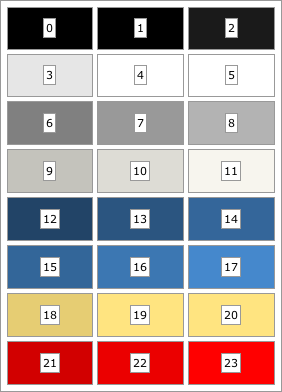
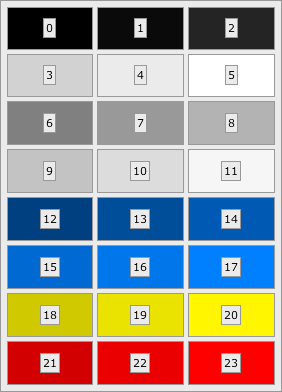
PIVOT-689, update docs on Palette colors of default palette

Changed region(s): [[0.0284, 0.4898, 0.9929, 0.8571]]

diff --git a/wtk-terra/src/org/apache/pivot/wtk/skin/terra/package.html b/wtk-terra/src/org/apache/pivot/wtk/skin/terra/package.html
@@ -66,6 +66,25 @@ of any "base color palette", in the range [0.0..1.0].
 </td>
 </tr>
 <tr valign="top">
+<td><tt>themeIsDark</tt></td>
+<td><tt>boolean</tt></td>
+<td>
+Tell if the theme is dark.
+Usually this means that (if true) any color will be transformed in the opposite way
+(brightening instead of darkening, and darkening instead of brightening).
+Set true if dark, false otherwise (default).
+</td>
+</tr>
+<tr valign="top">
+<td><tt>themeIsFlat</tt></td>
+<td><tt>boolean</tt></td>
+<td>
+Tell if the theme is flat.
+Usually this means that (if true) any border/shadow will not be drawn.
+Set true if flat, false otherwise (default).
+</td>
+</tr>
+<tr valign="top">
 <td><tt>colors</tt></td>
 <td><tt>List&lt;String&gt;</tt></td>
 <td>
@@ -95,15 +114,38 @@ Small message icon names; must include values for "error", "warning", "question"
 Names are specified as resource named relative to the <tt>TerraTheme</tt> class.
 </td>
 </tr>
+<tr valign="top">
+<td><tt>defaultBackgroundColor</tt></td>
+<td><tt>String</tt></td>
+<td>
+The theme's default background color in hexadecimal format, for example <tt>#ffffff</tt>.
+If not set, a generic default will be used.
+</td>
+</tr>
+<tr valign="top">
+<td><tt>defaultForegroundColor</tt></td>
+<td><tt>String</tt></td>
+<td>
+The theme's default foreground color in hexadecimal format, for example <tt>#000000</tt>.
+If not set, a generic default will be used.
+</td>
+</tr>
 </table>
 <br/>
 
 <p>
 By default, the theme definition in <tt>TerraTheme_default.json</tt> is used,
 but can be overridden via the <tt>org.apache.pivot.wtk.skin.terra.location</tt>
-property.
+property.<br/>
+For Example, in VM arguments set:<br/>
+<tt>-Dorg.apache.pivot.wtk.skin.terra.location=TerraTheme_dark.json</tt><br/>
+or<br/>
+<tt>-Dorg.apache.pivot.wtk.skin.terra.location=/org/apache/pivot/tests/TerraTheme_test.json</tt><br/>
 </p>
 <br/>
+
+<br/>
+<hr/>
 
 </body>
 </html>
